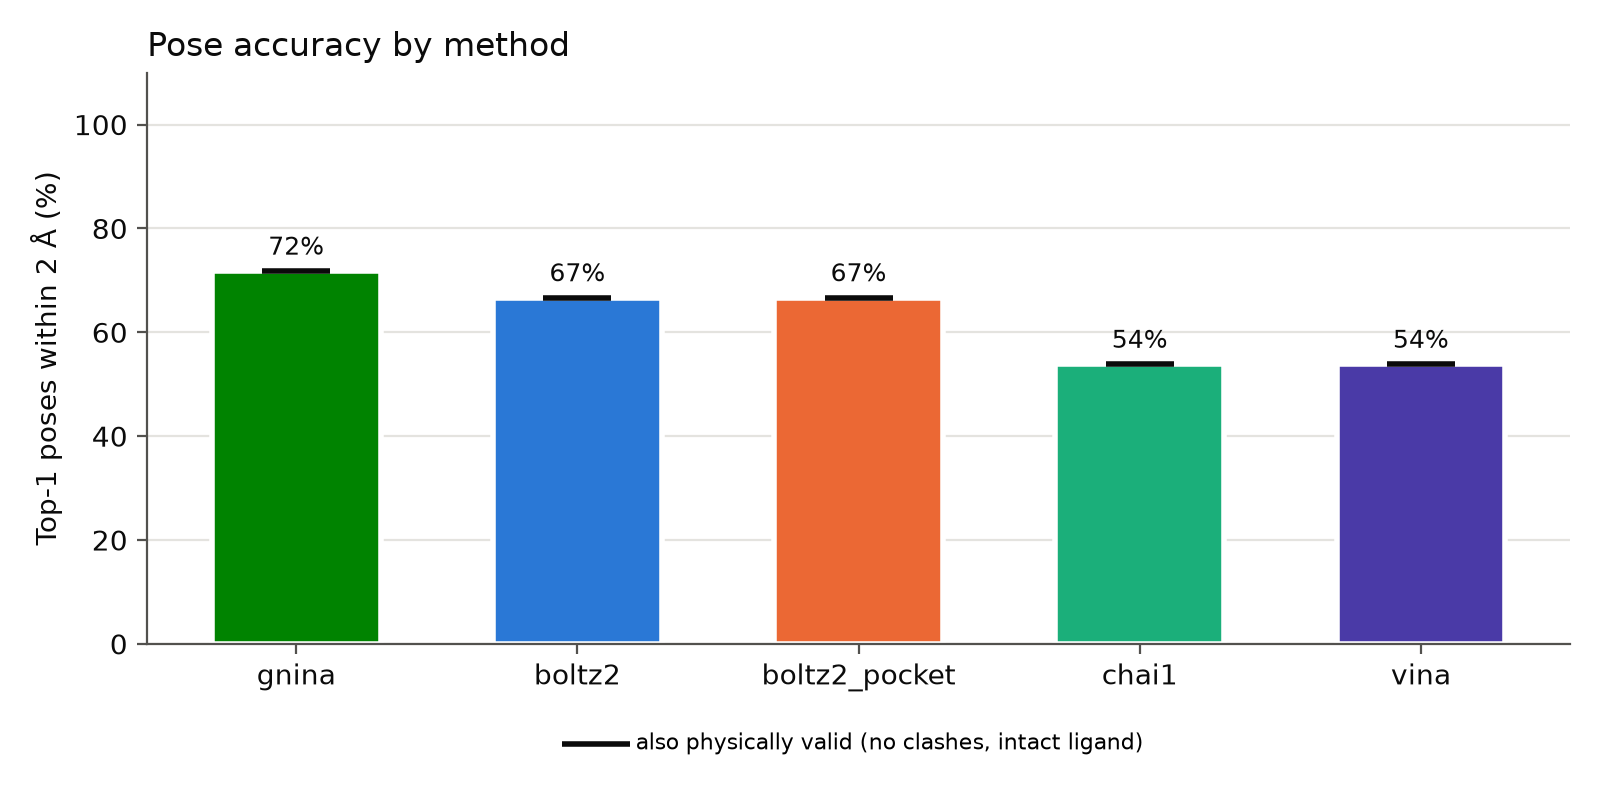
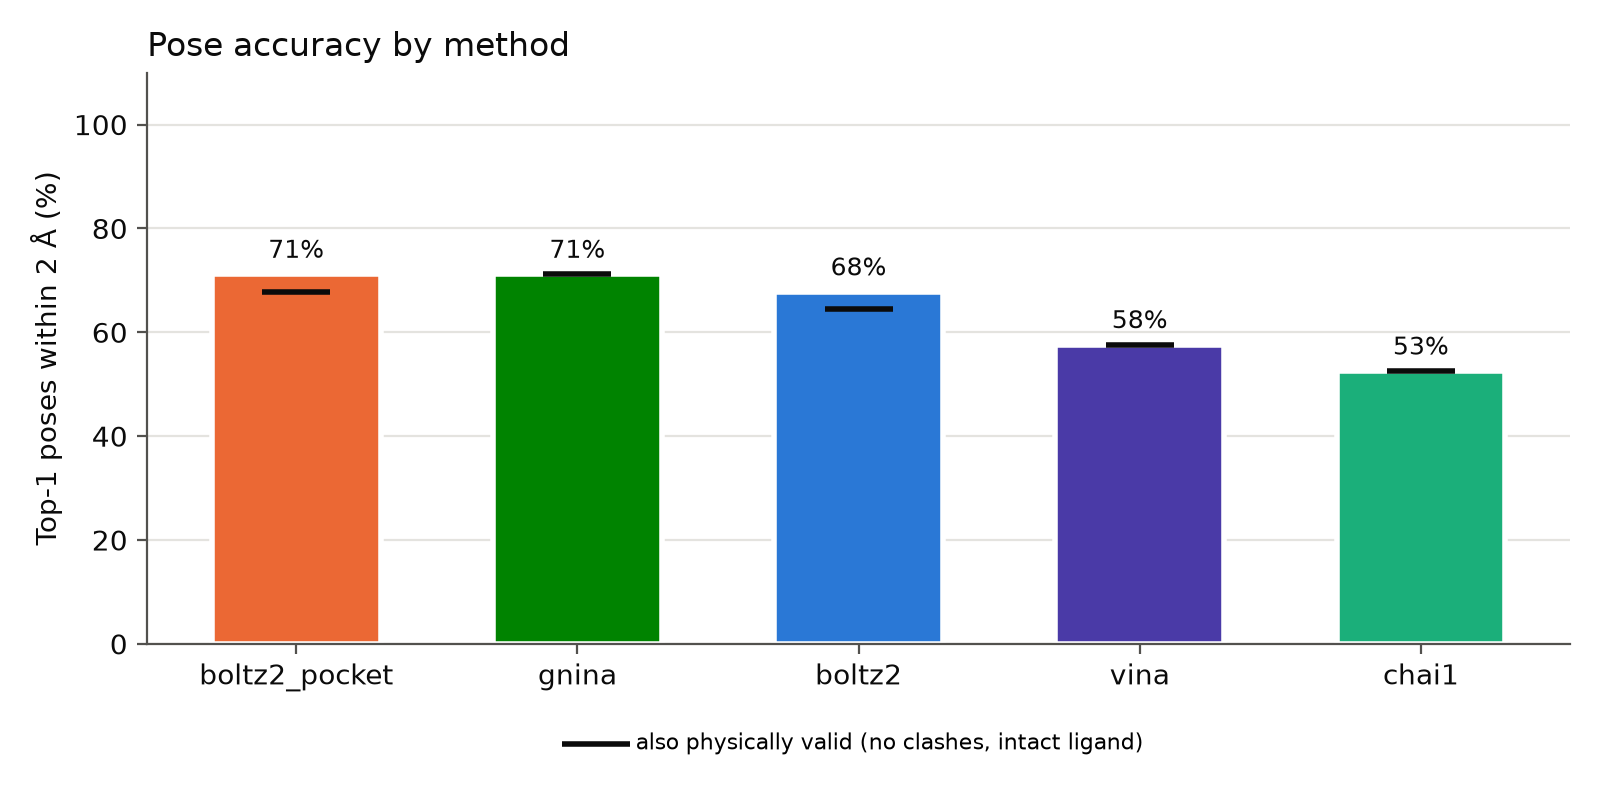
Regenerate reports from results.csv and correct the write-up
The committed report tables were from an earlier 39-target run and the
write-up quoted a 20/20/15 exposure split that the committed data does
not produce. Regenerate both report directories and bring every number
in RESULTS.md and the README back to what results.csv actually says:
the split is 19/21/15, Chai-1 is 89/48/27 and Vina 63/62/47.

Also fixes four claims that were wrong independently of the split:
one paired comparison does reach significance over all 55 targets,
Boltz-2 loses two successful poses to clashes, Chai-1 is missing five
targets rather than three, and pocket conditioning helps on the obscure
subset. Headline conclusions, matched pairs and all quoted p-values are
unchanged and re-verified.

diff --git a/scripts/make_cover.py b/scripts/make_cover.py
@@ -31,11 +31,11 @@ x = np.arange(3)
 
 # label, values, colour, marker, linewidth, linestyle
 series = [
-    ("Boltz-2 (co-folding)", [95, 70, 27], COFOLD, "o", 2.8, "-"),
-    ("Boltz-2 pocket (co-folding)", [95, 80, 27], COFOLD_P, "o", 2.0, (0, (5, 2))),
-    ("Chai-1 (co-folding)", [85, 50, 27], COFOLD2, "o", 2.2, "-"),
-    ("GNINA (docking)", [75, 70, 73], DOCK, "s", 2.8, "-"),
-    ("AutoDock Vina (docking)", [60, 65, 47], DOCK2, "s", 2.2, "-"),
+    ("Boltz-2 (co-folding)", [95, 71, 27], COFOLD, "o", 2.8, "-"),
+    ("Boltz-2 pocket (co-folding)", [95, 81, 27], COFOLD_P, "o", 2.0, (0, (5, 2))),
+    ("Chai-1 (co-folding)", [89, 48, 27], COFOLD2, "o", 2.2, "-"),
+    ("GNINA (docking)", [74, 71, 73], DOCK, "s", 2.8, "-"),
+    ("AutoDock Vina (docking)", [63, 62, 47], DOCK2, "s", 2.2, "-"),
 ]
 
 
@@ -125,9 +125,9 @@ plt.close(fig)
 fig, ax = plt.subplots(figsize=(8, 8), dpi=100)
 fig.patch.set_facecolor(BG)
 style(ax)
-ax.plot(x, [95, 70, 27], color=COFOLD, lw=4, marker="o", ms=14, mec=BG, mew=2,
+ax.plot(x, [95, 71, 27], color=COFOLD, lw=4, marker="o", ms=14, mec=BG, mew=2,
         zorder=3)
-ax.plot(x, [75, 70, 73], color=DOCK, lw=4, marker="s", ms=13, mec=BG, mew=2,
+ax.plot(x, [74, 71, 73], color=DOCK, lw=4, marker="s", ms=13, mec=BG, mew=2,
         zorder=3)
 ax.text(-0.18, 32, "Boltz-2\nco-folding", color=COFOLD, fontsize=13,
         fontweight="bold", ha="left", va="center")

diff --git a/docs/RESULTS.md b/docs/RESULTS.md
@@ -7,10 +7,10 @@ tables with `cofoldbench report` and `cofoldbench stats`.
 
 The target set is deliberately split in three:
 
-* **23 classic complexes** (imatinib/ABL, erlotinib/EGFR, sildenafil/PDE5,
+* **22 classic complexes** (imatinib/ABL, erlotinib/EGFR, sildenafil/PDE5,
   venetoclax/BCL-2 …), released long before every model's training cut-off and
   heavily represented in it;
-* **20 obscure complexes released 2015–2023**, also before the cut-off but
+* **21 obscure complexes released 2015–2023**, also before the cut-off but
   ordinary and little-cited — the control that separates *heavily represented*
   from merely *seen*;
 * **16 complexes released after 2023-06-01**, the later of the two training
@@ -27,28 +27,28 @@ benchmark, every tutorial, redundant entries — while an ordinary structure fro
 the same years is in it once. Splitting on that gives a three-level gradient
 that a simple time split hides:
 
-| Top-1 success (RMSD ≤ 2 Å) | famous, pre-cut-off (n=20) | **obscure, pre-cut-off (n=20)** | after cut-off (n=15) |
+| Top-1 success (RMSD ≤ 2 Å) | famous, pre-cut-off (n=19) | **obscure, pre-cut-off (n=21)** | after cut-off (n=15) |
 |---|---|---|---|
-| Boltz-2 (blind) | **95%** [76–99] | **70%** [48–85] | **27%** [11–52] |
-| Boltz-2 (pocket) | **95%** [76–99] | 80% [58–92] | **27%** [11–52] |
-| Chai-1 | 85% [64–95] | 50% [30–70] | 27% [11–52] |
-| GNINA | 75% [53–89] | 70% [48–85] | **73%** [48–89] |
-| AutoDock Vina | 60% [39–78] | 65% [43–82] | 47% [25–70] |
+| Boltz-2 (blind) | **95%** [75–99] | **71%** [50–86] | **27%** [11–52] |
+| Boltz-2 (pocket) | **95%** [75–99] | 81% [60–92] | **27%** [11–52] |
+| Chai-1 | 89% [69–97] | 48% [28–68] | 27% [11–52] |
+| GNINA | 74% [51–88] | 71% [50–86] | **73%** [48–89] |
+| AutoDock Vina | 63% [41–81] | 62% [41–79] | 47% [25–70] |
 
 **Docking is flat across all three levels. Co-folding falls monotonically.**
-GNINA scores 75% / 70% / 73%; Boltz-2 scores 95% / 70% / 27%.
+GNINA scores 74% / 71% / 73%; Boltz-2 scores 95% / 71% / 27%.
 
 Two consequences, and the first was a surprise:
 
 **1. Mere presence in the training set is not what drives co-folding's
 accuracy.** The obscure pre-cut-off targets were released 2015–2023 and are
-every bit as "seen" as the classics, yet Boltz-2 drops from 95% to 70% and
-Chai-1 from 85% to 50%. What distinguishes the classics is not exposure but
+every bit as "seen" as the classics, yet Boltz-2 drops from 95% to 71% and
+Chai-1 from 89% to 48%. What distinguishes the classics is not exposure but
 *redundancy* — how many times the same complex appears.
 
 **2. On ordinary seen structures, co-folding has no advantage over docking.**
-Boltz-2 and GNINA both score 70% on the obscure pre-cut-off set, and paired on
-those same 20 targets they are indistinguishable (3 targets each way,
+Boltz-2 and GNINA both score 71% on the obscure pre-cut-off set, and paired on
+those same 21 targets they are indistinguishable (3 targets each way,
 p = 1.0). Co-folding's apparent superiority is confined to famous complexes;
 its deficit is confined to unseen ones.
 
@@ -56,8 +56,10 @@ its deficit is confined to unseen ones.
 same targets: GNINA vs Boltz-2 **p = 0.039** (8 targets to 1), GNINA vs Chai-1
 **p = 0.016** (7 to 0).
 
-**Aggregated over all 55 targets, no method is significantly better than any
-other** (GNINA 73%, Boltz-2-pocket 71%, Boltz-2 67%, Vina 58%, Chai-1 56%).
+**Aggregated over all 55 targets the methods barely separate** (GNINA 73%,
+Boltz-2-pocket 71%, Boltz-2 67%, Vina 58%, Chai-1 56%). Of the ten paired
+comparisons only Boltz-2 (pocket) vs Chai-1 reaches significance (p = 0.02);
+GNINA vs Boltz-2, the comparison the whole question turns on, is p = 0.65.
 The overall average hides the entire structure of the result — which is the
 main methodological point of this benchmark.
 
@@ -108,18 +110,18 @@ almost perfectly (pocket Cα RMSD ≤ 1 Å after superposition):
 
 | Boltz-2, pocket Cα RMSD ≤ 1 Å | n | ligand success |
 |---|---|---|
-| before cut-off | 18 | **18/18 (100%)** |
+| before cut-off | 33 | **27/33 (82%)** |
 | after cut-off | 10 | **3/10 (30%)** |
 
 Boltz-2's protein prediction does degrade on novel targets (median pocket Cα
-RMSD 0.31 Å → 0.79 Å), but that is not what is driving the ligand failures:
+RMSD 0.38 Å → 0.76 Å), but that is not what is driving the ligand failures:
 even where the pocket comes out essentially right, the ligand lands correctly
-100% of the time before the cut-off and 30% after.
+82% of the time before the cut-off and 30% after.
 
 **4. And the obscure pre-cut-off control settles the biggest one.** If the
 post-cut-off drop were just "this target set is harder", the obscure
 pre-cut-off set — ordinary structures, ordinary ligands, no fame — should look
-like the post-cut-off set. It does not: Boltz-2 gets 70% there against 27%
+like the post-cut-off set. It does not: Boltz-2 gets 71% there against 27%
 after the cut-off. Equally, if exposure alone explained the 95%, the obscure
 set should match the classics. It does not either. Both halves of the gradient
 are real.
@@ -128,12 +130,14 @@ are real.
 
 ## Other findings
 
-**Telling Boltz-2 where the pocket is barely helps.** Blind and
-pocket-conditioned Boltz-2 have identical success rates (64% overall, 25%
-post-cut-off; 1 discordant target each way, p = 1.0). The constraint does
-shrink the error on several bad poses — 9XJQ 6.75 → 1.55 Å, 9UY8 7.95 → 2.42 Å,
-35XE 7.96 → 3.30 Å — but rarely below 2 Å. So co-folding's problem on novel
-targets is not that it looks in the wrong place.
+**Telling Boltz-2 where the pocket is does not fix the novel targets.** The
+constraint buys a little overall (71% vs 67% on the 55 scored targets, 3
+discordant targets to 1, p = 0.63) and most of that comes from the obscure
+pre-cut-off set (81% vs 71%). After the cut-off it buys nothing: 27% either
+way, 1 discordant target each way, p = 1.0. The constraint does shrink the
+error on several bad poses — 9XJQ 6.75 → 1.55 Å, 9UY8 7.95 → 2.42 Å, 35XE
+7.96 → 3.30 Å — but rarely below 2 Å. So co-folding's problem on novel targets
+is not that it looks in the wrong place.
 
 **Co-folding is clearly better where docking's conformer search struggles.**
 1YET (geldanamycin, a macrocycle): Boltz-2 0.68 Å vs GNINA 9.12 Å and Vina
@@ -141,17 +145,20 @@ targets is not that it looks in the wrong place.
 10.52 Å. Macrocycles and large flexible ligands are a real weakness of
 docking, and co-folding handles them well.
 
-**GNINA > Vina, but not significantly** (72% vs 53%, p = 0.09): a plausible
+**GNINA > Vina, but not significantly** (73% vs 58%, p = 0.10): a plausible
 benefit from CNN rescoring that this target set cannot establish.
 
 **Interaction recovery tracks RMSD but is less discriminating** — all methods
-recover 80–88% of crystal contacts on average, even when the pose is wrong,
+recover 81–89% of crystal contacts on average, even when the pose is wrong,
 because a ligand in roughly the right pocket touches roughly the right
 residues. Pose RMSD is the sharper measure.
 
-**Physical validity was never the problem.** `top1_success_valid` equals
-`top1_success` for every method and subset: no successful pose had a clash or a
-broken ligand. Only 2 of 953 poses had a ligand graph mismatch.
+**Physical validity was rarely the problem.** `top1_success_valid` equals
+`top1_success` for GNINA, Vina and Chai-1. Only Boltz-2 loses anything to it:
+2 of its successful top-1 poses clash with the receptor, blind and
+pocket-conditioned alike (37 → 35 and 39 → 37 of 55). Across all 1437 poses
+just 2 had a ligand graph mismatch, though 60 contain at least one
+protein-ligand pair closer than 2.2 Å.
 
 ---
 
@@ -167,9 +174,9 @@ asymmetric advantage, and it is the single biggest caveat here. Cross-docking
 into apo or MD-ensemble receptors (on the roadmap) is where docking should
 lose ground.
 
-**2. n = 16 after the cut-off.** The paired tests reach p < 0.05, but the
-interval on Boltz-2's post-cut-off rate is 25% [10–50%]. The *direction* is
-solid; the exact number is not.
+**2. n = 15 scored after the cut-off** (16 in the set, less 9XHG). The paired
+tests reach p < 0.05, but the interval on Boltz-2's post-cut-off rate is
+27% [11–52%]. The *direction* is solid; the exact number is not.
 
 **3. The target set excludes whole classes of target.** Covalent ligands,
 pockets needing a catalytic metal (four carbonic anhydrases among them) or a
@@ -187,11 +194,15 @@ should be rebuilt with both chains or dropped. Excluding it does not change
 any conclusion. 9ZBG also deserves a look: blind Boltz-2 put the pocket 19.7 Å
 out, while the pocket-conditioned run placed it at 0.8 Å.
 
-**5. Three targets are missing from Chai-1.** COX-2, acetylcholinesterase and
-HIV-1 reverse transcriptase (525–552 residues) do not fit Chai-1 on a 12 GB
-GPU. All three are pre-cut-off, so including them *understates* Chai-1's
-before/after drop; the tables above exclude them for every method
-(`--exclude 1EVE,1VRT,3LN1`). That is a hardware limit, not a model one.
+**5. Five targets are missing from Chai-1,** all of them the longest
+constructs in the set: COX-2 (587), acetylcholinesterase (543), HIV-1 reverse
+transcriptase p66, MurE (496) and acetyl-CoA synthetase (694 residues). None
+fit Chai-1 on a 12 GB GPU. The first three are the pre-cut-off classics the
+tables above exclude for every method (`--exclude 1EVE,1VRT,3LN1`); the other
+two are obscure pre-cut-off targets that stay in and count as failures
+(`n_missing = 2`), so Chai-1's 48% on that subset is a floor rather than a
+measurement. All five are pre-cut-off, so the missing poses *understate*
+Chai-1's before/after drop. That is a hardware limit, not a model one.
 
 **6. The three-way split rests on a judgement about which targets are
 "famous".** The classic set was chosen as recognisable drug complexes and the
@@ -200,10 +211,11 @@ arbitrary — but "famous" is not quantified here. Counting citations, or PDB
 sequence-cluster redundancy, would put a number on it. Imatinib/ABL and
 sildenafil/PDE5 are not just in the training data, they are in it many times
 over. So this split confounds *seen in training* with *heavily represented*,
-and the 95% may partly measure fame rather than exposure. The control for this
-is a set of obscure pre-cut-off structures
-(`cofoldbench search --after 2015-01-01 --before 2021-01-01`); until that is
-run, this is the strongest open objection to the memorisation reading.
+and the 95% may partly measure fame rather than exposure. That is exactly what
+the obscure pre-cut-off control set is for, and it is what the three-level
+table reports — but the *labelling* of a target as famous or obscure remains a
+judgement call, and moving a single borderline target between the two columns
+shifts those rates by a few points.
 
 **7. One seed per method.** Docking is stochastic and no run-to-run variance
 was measured, so the precision implied by a single number is optimistic
@@ -227,5 +239,5 @@ cofoldbench stats  --exclude 1EVE,1VRT,3LN1,9XHG --split exposure --per-target
 exclusions follow a priori structural criteria, decided before any pose was
 scored.
 
-`results/report/` holds the same tables over all 39 targets, where Chai-1
-carries `n_missing = 3`.
+`results/report/` holds the same tables over all 59 targets with a plain
+before/after time split, where Chai-1 carries `n_missing = 5`.

diff --git a/results/report_fits/summary.md b/results/report_fits/summary.md
@@ -1,17 +1,22 @@
 | method | subset | n_targets | n_missing | top1_success | top1_success_valid | top5_success | top1_median_rmsd | top1_recovery_all | top1_recovery_polar | top1_pocket_ca_rmsd | n_errors |
 |---|---|---|---|---|---|---|---|---|---|---|---|
-| gnina | all | 36 | 0 | 72% | 72% | 86% | 1.33 | 83% | 84% | 0.00 | 0 |
-| boltz2 | all | 36 | 0 | 64% | 64% | 67% | 0.89 | 83% | 80% | 0.45 | 0 |
-| boltz2_pocket | all | 36 | 0 | 64% | 64% | 72% | 1.07 | 88% | 77% | 0.47 | 0 |
-| chai1 | all | 36 | 0 | 58% | 58% | 61% | 1.21 | 80% | 74% | 0.57 | 0 |
-| vina | all | 36 | 0 | 53% | 53% | 81% | 1.79 | 83% | 68% | 0.00 | 0 |
-| gnina | after cutoff | 16 | 0 | 69% | 69% | 81% | 1.25 | 82% | 86% | 0.00 | 0 |
-| vina | after cutoff | 16 | 0 | 44% | 44% | 75% | 2.77 | 83% | 57% | 0.00 | 0 |
-| boltz2 | after cutoff | 16 | 0 | 25% | 25% | 25% | 3.21 | 73% | 66% | 0.79 | 0 |
-| boltz2_pocket | after cutoff | 16 | 0 | 25% | 25% | 38% | 2.97 | 83% | 59% | 0.67 | 0 |
-| chai1 | after cutoff | 16 | 0 | 25% | 25% | 25% | 4.50 | 67% | 59% | 0.76 | 0 |
-| boltz2 | before cutoff | 20 | 0 | 95% | 95% | 100% | 0.61 | 91% | 90% | 0.33 | 0 |
-| boltz2_pocket | before cutoff | 20 | 0 | 95% | 95% | 100% | 0.55 | 92% | 91% | 0.34 | 0 |
-| chai1 | before cutoff | 20 | 0 | 85% | 85% | 90% | 0.66 | 91% | 85% | 0.45 | 0 |
-| gnina | before cutoff | 20 | 0 | 75% | 75% | 90% | 1.37 | 83% | 82% | 0.00 | 0 |
-| vina | before cutoff | 20 | 0 | 60% | 60% | 85% | 1.38 | 84% | 76% | 0.00 | 0 |
+| gnina | all | 55 | 0 | 73% | 73% | 93% | 1.18 | 85% | 84% | 0.00 | 0 |
+| boltz2_pocket | all | 55 | 0 | 71% | 67% | 76% | 0.89 | 89% | 80% | 0.42 | 0 |
+| boltz2 | all | 55 | 0 | 67% | 64% | 71% | 0.86 | 84% | 79% | 0.45 | 0 |
+| vina | all | 55 | 0 | 58% | 58% | 80% | 1.39 | 83% | 74% | 0.00 | 0 |
+| chai1 | all | 55 | 2 | 56% | 56% | 62% | 1.20 | 81% | 74% | 0.44 | 0 |
+| boltz2 | famous (pre-cutoff) | 19 | 0 | 95% | 95% | 100% | 0.61 | 91% | 92% | 0.36 | 0 |
+| boltz2_pocket | famous (pre-cutoff) | 19 | 0 | 95% | 95% | 100% | 0.48 | 92% | 92% | 0.36 | 0 |
+| chai1 | famous (pre-cutoff) | 19 | 0 | 89% | 89% | 89% | 0.63 | 92% | 86% | 0.52 | 0 |
+| gnina | famous (pre-cutoff) | 19 | 0 | 74% | 74% | 89% | 1.36 | 84% | 82% | 0.00 | 0 |
+| vina | famous (pre-cutoff) | 19 | 0 | 63% | 63% | 84% | 1.36 | 84% | 75% | 0.00 | 0 |
+| boltz2_pocket | obscure (pre-cutoff) | 21 | 0 | 81% | 71% | 81% | 0.71 | 89% | 80% | 0.37 | 0 |
+| boltz2 | obscure (pre-cutoff) | 21 | 0 | 71% | 62% | 76% | 0.86 | 82% | 74% | 0.38 | 0 |
+| gnina | obscure (pre-cutoff) | 21 | 0 | 71% | 71% | 100% | 0.97 | 89% | 86% | 0.00 | 0 |
+| vina | obscure (pre-cutoff) | 21 | 0 | 62% | 62% | 76% | 1.11 | 83% | 84% | 0.00 | 0 |
+| chai1 | obscure (pre-cutoff) | 21 | 2 | 48% | 48% | 62% | 1.64 | 78% | 71% | 0.37 | 0 |
+| gnina | after cutoff | 15 | 0 | 73% | 73% | 87% | 1.21 | 81% | 85% | 0.00 | 0 |
+| vina | after cutoff | 15 | 0 | 47% | 47% | 80% | 2.36 | 82% | 61% | 0.00 | 0 |
+| boltz2 | after cutoff | 15 | 0 | 27% | 27% | 27% | 3.16 | 78% | 71% | 0.76 | 0 |
+| boltz2_pocket | after cutoff | 15 | 0 | 27% | 27% | 40% | 2.95 | 83% | 63% | 0.64 | 0 |
+| chai1 | after cutoff | 15 | 0 | 27% | 27% | 27% | 4.39 | 72% | 63% | 0.72 | 0 |

diff --git a/results/report/summary.md b/results/report/summary.md
@@ -1,17 +1,17 @@
 | method | subset | n_targets | n_missing | top1_success | top1_success_valid | top5_success | top1_median_rmsd | top1_recovery_all | top1_recovery_polar | top1_pocket_ca_rmsd | n_errors |
 |---|---|---|---|---|---|---|---|---|---|---|---|
-| gnina | all | 39 | 0 | 72% | 72% | 87% | 1.30 | 83% | 84% | 0.00 | 0 |
-| boltz2 | all | 39 | 0 | 67% | 67% | 69% | 0.80 | 84% | 80% | 0.45 | 0 |
-| boltz2_pocket | all | 39 | 0 | 67% | 67% | 74% | 0.84 | 88% | 77% | 0.45 | 0 |
-| chai1 | all | 39 | 3 | 54% | 54% | 56% | 1.21 | 80% | 74% | 0.57 | 0 |
-| vina | all | 39 | 0 | 54% | 54% | 79% | 1.70 | 83% | 69% | 0.00 | 0 |
+| boltz2_pocket | all | 59 | 0 | 71% | 68% | 76% | 0.84 | 88% | 78% | 0.40 | 0 |
+| gnina | all | 59 | 0 | 71% | 71% | 92% | 1.18 | 85% | 85% | 0.00 | 0 |
+| boltz2 | all | 59 | 0 | 68% | 64% | 71% | 0.83 | 83% | 78% | 0.44 | 0 |
+| vina | all | 59 | 0 | 58% | 58% | 78% | 1.39 | 83% | 74% | 0.00 | 0 |
+| chai1 | all | 59 | 5 | 53% | 53% | 58% | 1.22 | 80% | 73% | 0.45 | 0 |
+| boltz2_pocket | before cutoff | 43 | 0 | 88% | 84% | 91% | 0.48 | 90% | 86% | 0.36 | 0 |
+| boltz2 | before cutoff | 43 | 0 | 84% | 79% | 88% | 0.65 | 87% | 83% | 0.37 | 0 |
+| gnina | before cutoff | 43 | 0 | 72% | 72% | 95% | 1.09 | 87% | 84% | 0.00 | 0 |
+| chai1 | before cutoff | 43 | 5 | 63% | 63% | 70% | 0.77 | 85% | 79% | 0.39 | 0 |
+| vina | before cutoff | 43 | 0 | 63% | 63% | 79% | 1.24 | 84% | 80% | 0.00 | 0 |
 | gnina | after cutoff | 16 | 0 | 69% | 69% | 81% | 1.25 | 82% | 86% | 0.00 | 0 |
 | vina | after cutoff | 16 | 0 | 44% | 44% | 75% | 2.77 | 83% | 57% | 0.00 | 0 |
 | boltz2 | after cutoff | 16 | 0 | 25% | 25% | 25% | 3.21 | 73% | 66% | 0.79 | 0 |
 | boltz2_pocket | after cutoff | 16 | 0 | 25% | 25% | 38% | 2.97 | 83% | 59% | 0.67 | 0 |
 | chai1 | after cutoff | 16 | 0 | 25% | 25% | 25% | 4.50 | 67% | 59% | 0.76 | 0 |
-| boltz2 | before cutoff | 23 | 0 | 96% | 96% | 100% | 0.61 | 91% | 90% | 0.31 | 0 |
-| boltz2_pocket | before cutoff | 23 | 0 | 96% | 96% | 100% | 0.48 | 91% | 89% | 0.33 | 0 |
-| chai1 | before cutoff | 23 | 3 | 74% | 74% | 78% | 0.66 | 91% | 85% | 0.45 | 0 |
-| gnina | before cutoff | 23 | 0 | 74% | 74% | 91% | 1.36 | 84% | 82% | 0.00 | 0 |
-| vina | before cutoff | 23 | 0 | 61% | 61% | 83% | 1.36 | 84% | 77% | 0.00 | 0 |

diff --git a/README.md b/README.md
@@ -30,18 +30,18 @@ and the interaction analysis connects to
 >
 > | Top-1 success | famous, pre-cut-off | obscure, pre-cut-off | after cut-off |
 > |---|---|---|---|
-> | Boltz-2 | 95% | 70% | 27% |
-> | Chai-1 | 85% | 50% | 27% |
-> | GNINA | 75% | 70% | 73% |
-> | Vina | 60% | 65% | 47% |
+> | Boltz-2 | 95% | 71% | 27% |
+> | Chai-1 | 89% | 48% | 27% |
+> | GNINA | 74% | 71% | 73% |
+> | Vina | 63% | 62% | 47% |
 >
 > Docking is flat across all three; co-folding falls monotonically. Mere
 > presence in the training set is not what drives co-folding's accuracy —
-> obscure structures from the same years cost Boltz-2 25 points. On those
-> ordinary seen structures Boltz-2 and GNINA are indistinguishable (70% each,
+> obscure structures from the same years cost Boltz-2 24 points. On those
+> ordinary seen structures Boltz-2 and GNINA are indistinguishable (71% each,
 > paired p = 1.0); on unseen ones GNINA wins (p = 0.039). Aggregated over all
-> 55 scored targets no method differs significantly from any other, so the
-> overall average hides the whole effect.
+> 55 scored targets GNINA and Boltz-2 are statistically inseparable (p = 0.65),
+> so the overall average hides the whole effect.
 >
 > Caveat first: this is re-docking into the **crystal receptor**, which favours
 > docking; see [Limitations](docs/RESULTS.md#limitations).
@@ -268,7 +268,7 @@ tests/           end-to-end tests on 6DPT
 - [x] Tests on AmpC / H7M (6DPT)
 - [x] Target building from PDB IDs with ligand checks; time-split search; before/after cut-off report
 - [x] Docking inputs (SMILES conformer, shared pocket box) and GNINA / Vina run script
-- [x] Target set: 23 classic + 20 obscure pre-cut-off + 16 post-cut-off complexes
+- [x] Target set: 22 classic + 21 obscure pre-cut-off + 16 post-cut-off complexes
 - [x] Run Boltz-2 (blind + pocket), Chai-1, GNINA and Vina ([runbook](docs/RUNBOOK.md))
 - [x] Statistics: Wilson intervals, paired McNemar tests, before/after cut-off differences
 - [x] Control: obscure pre-cut-off targets, separating "heavily represented" from merely "seen"
